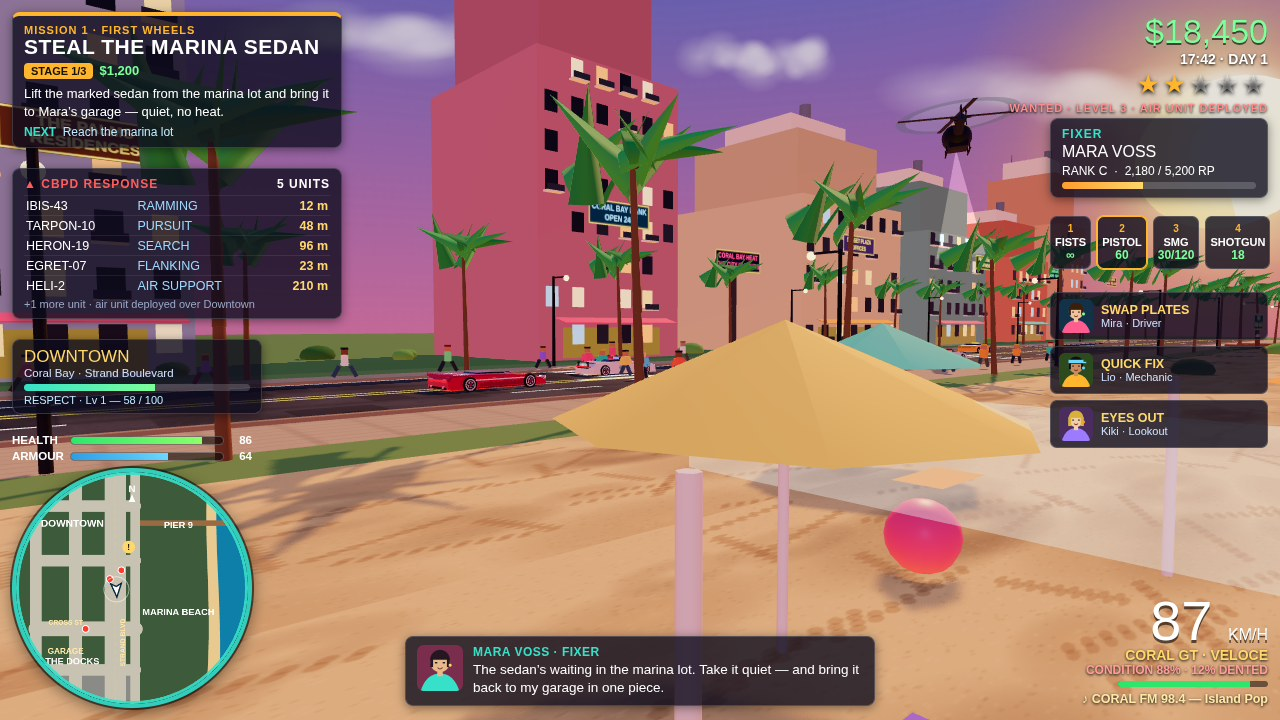
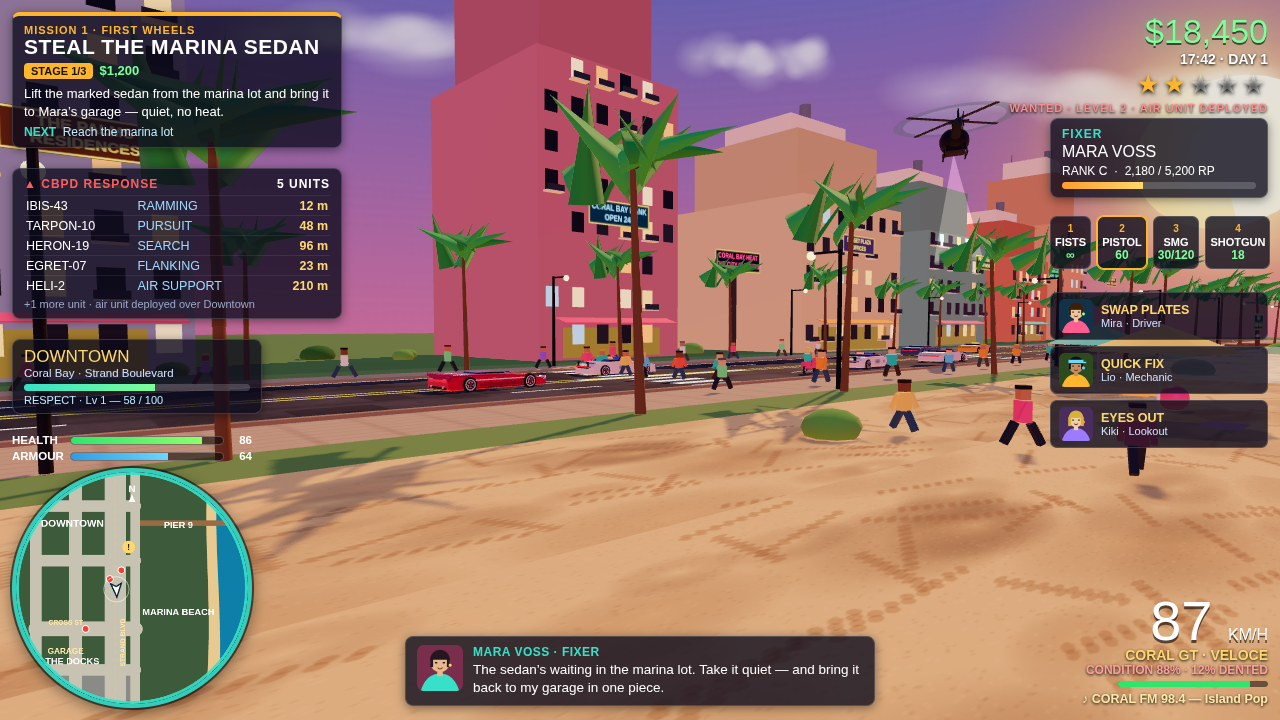
Phase 1 v5: docks heli lowered into frame, drive mode verified (W accelerates, zero page errors)

diff --git a/game/src/shots.js b/game/src/shots.js
@@ -33,11 +33,11 @@ export const SHOTS = {
     fov: 55,
   },
   docks: {
-    cam: [-2, 6, 158],
-    look: [-32, 8, 120],
-    hero: [-24, 0, 140],
-    heroRot: -0.785,
-    heli: [-28, 28, 130],
+    cam: [16, 6, 148],
+    look: [-36, 9, 136],
+    hero: [-14, 0, 136],
+    heroRot: 0.6,
+    heli: [-24, 20, 132],
     wanted: 5,
     fov: 55,
   },
